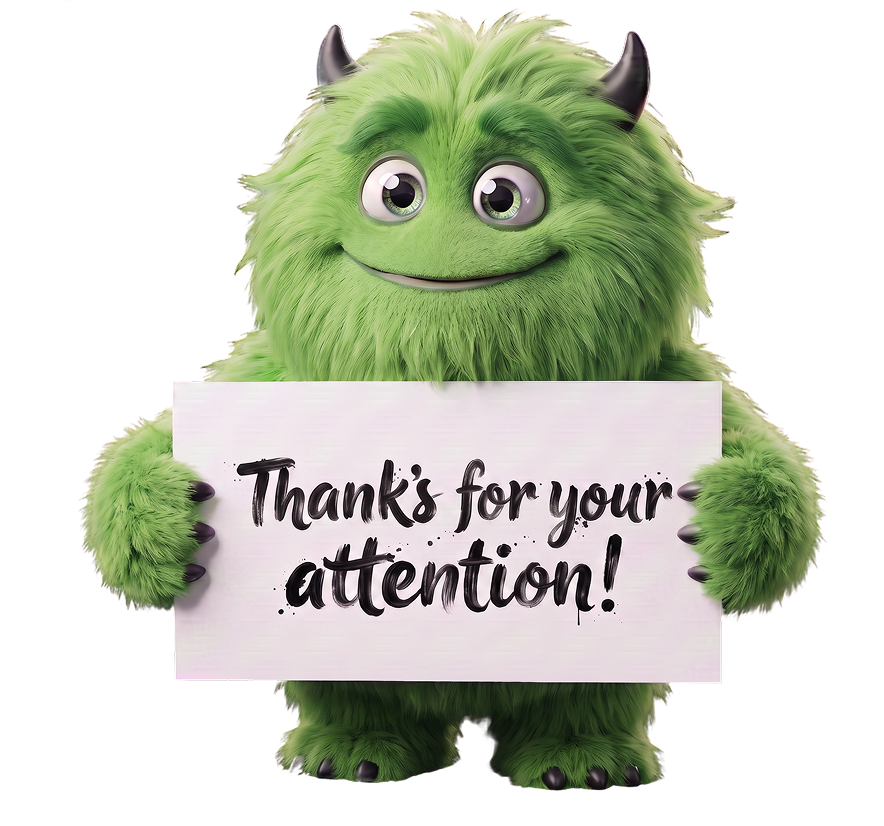
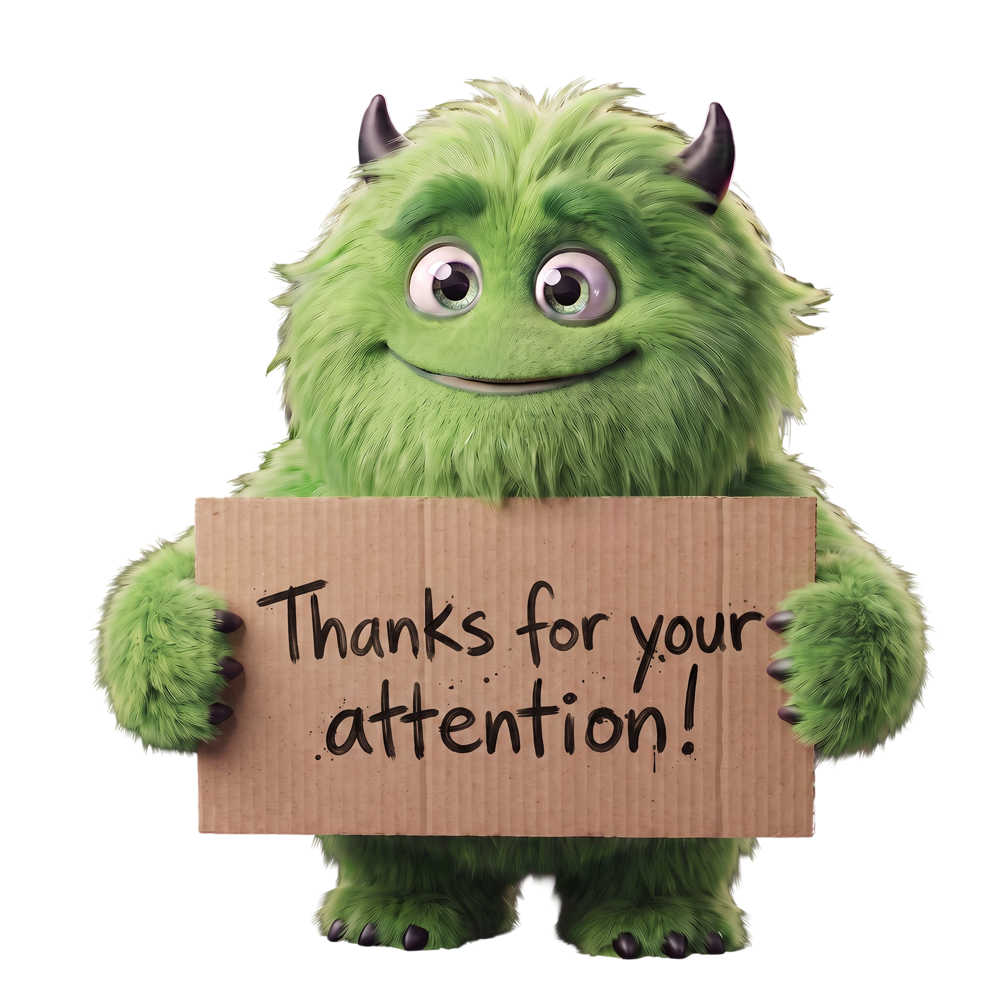
Pap-Pay: swap closing mascot art; break Next case title after 'Enhancing'

diff --git a/cases/pap-pay.html b/cases/pap-pay.html
@@ -1586,7 +1586,7 @@
   <section class="pp-next reveal" aria-label="Next case">
     <div>
       <div class="pp-next__label">Next case</div>
-      <div class="pp-next__title">Enhancing the<br>ERP core</div>
+      <div class="pp-next__title">Enhancing<br>the ERP core</div>
     </div>
     <a href="erp-core.html" class="pp-next__link">
       View case
